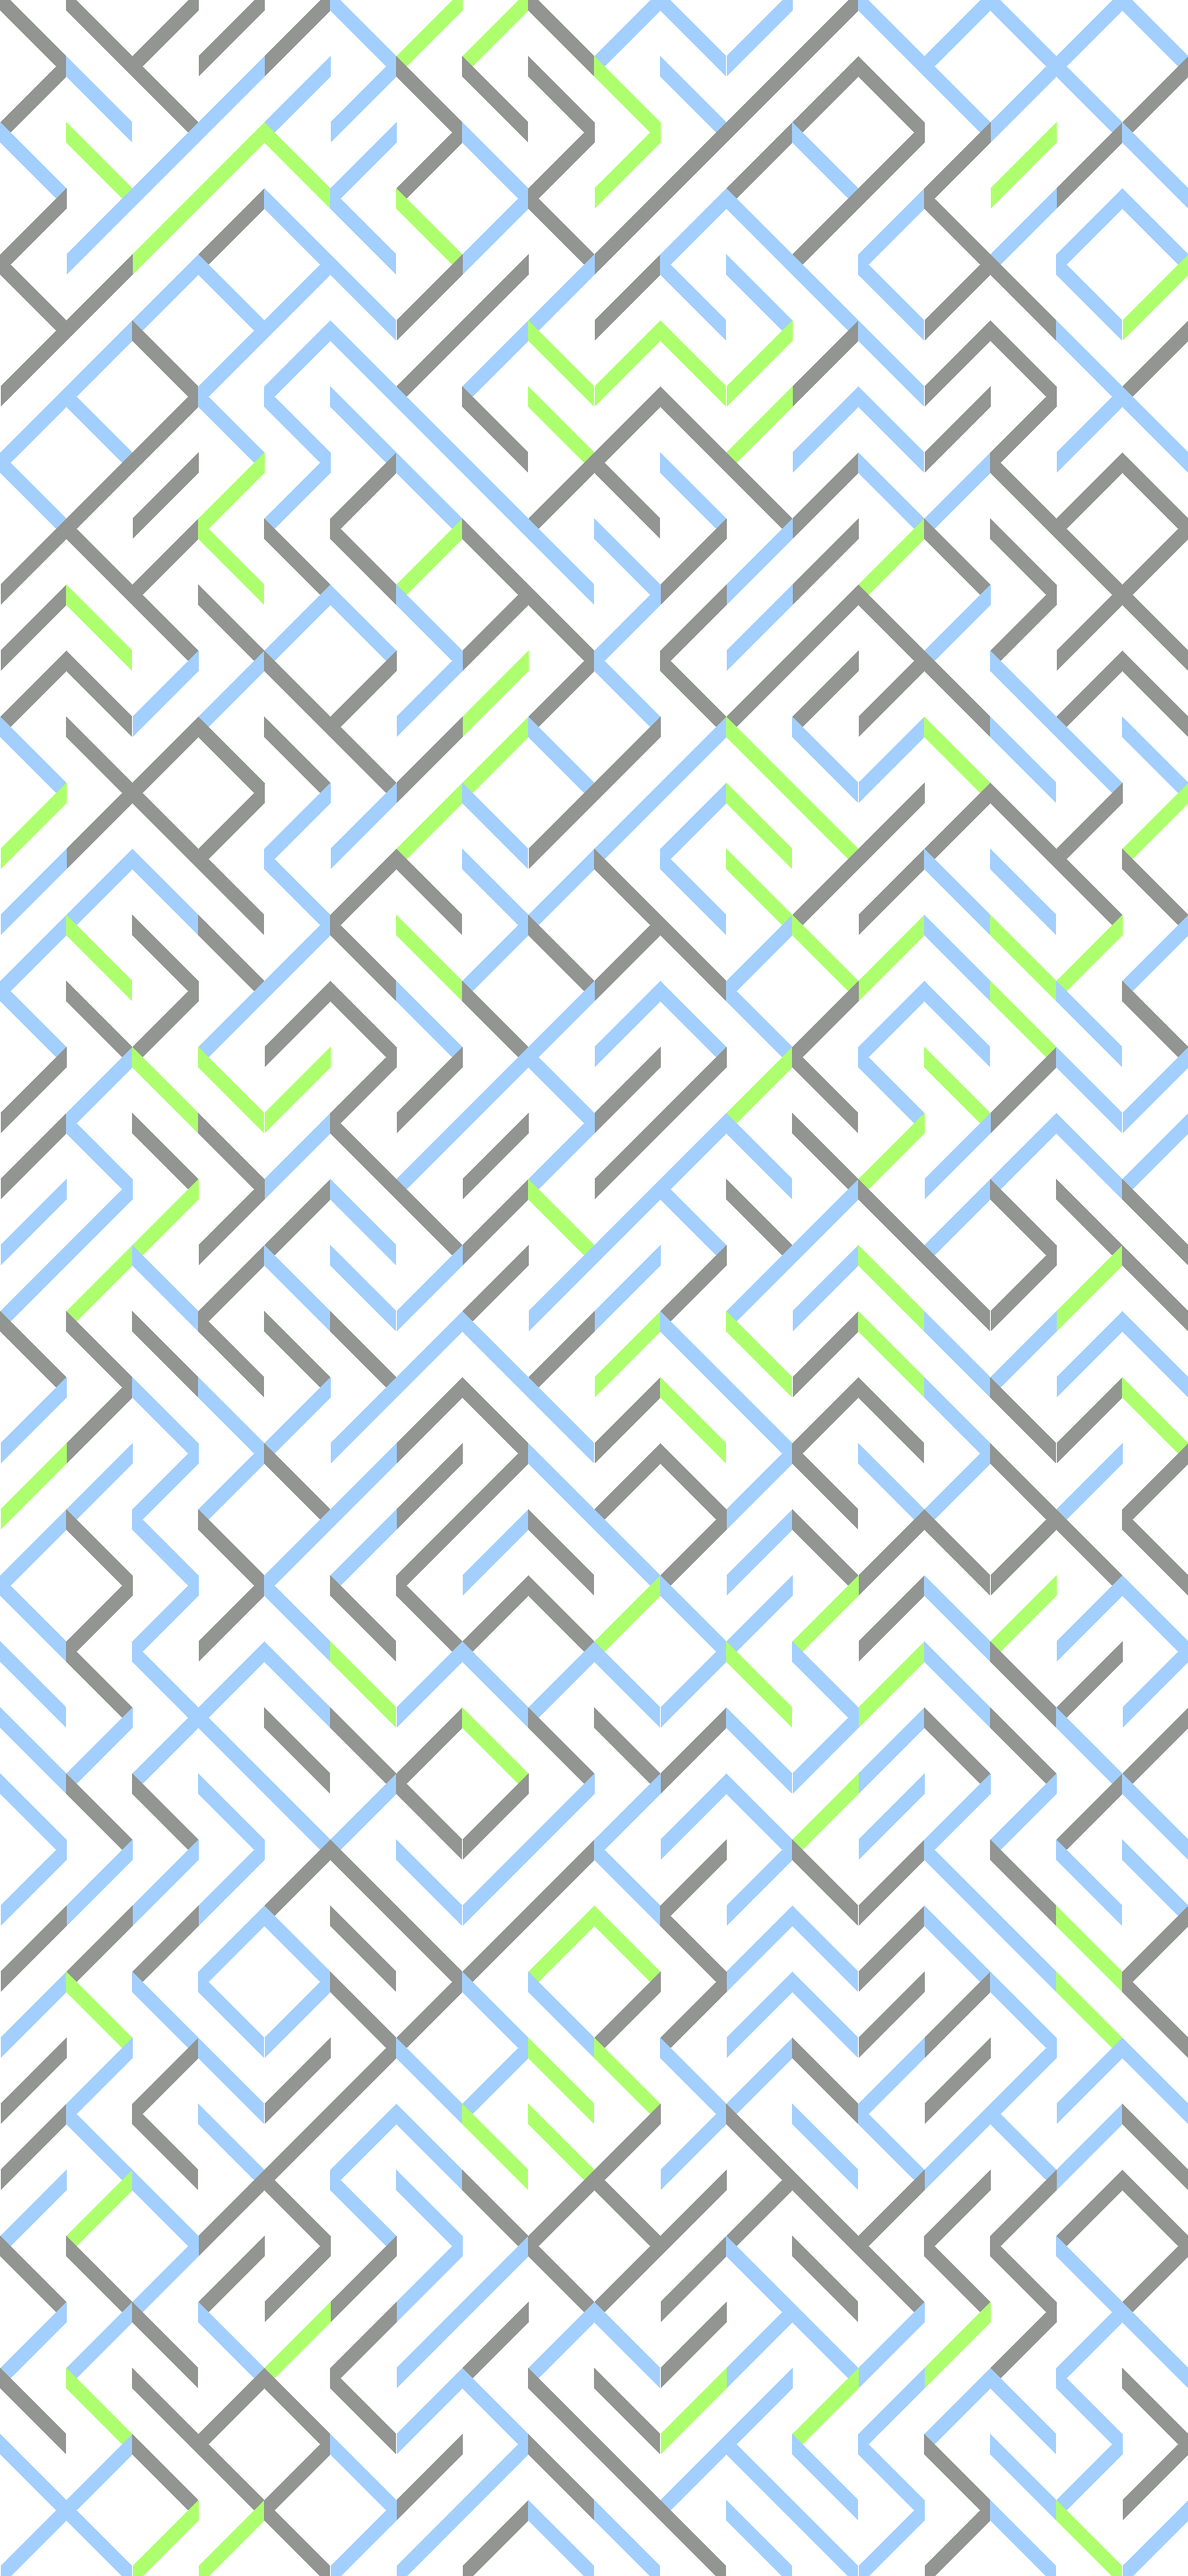
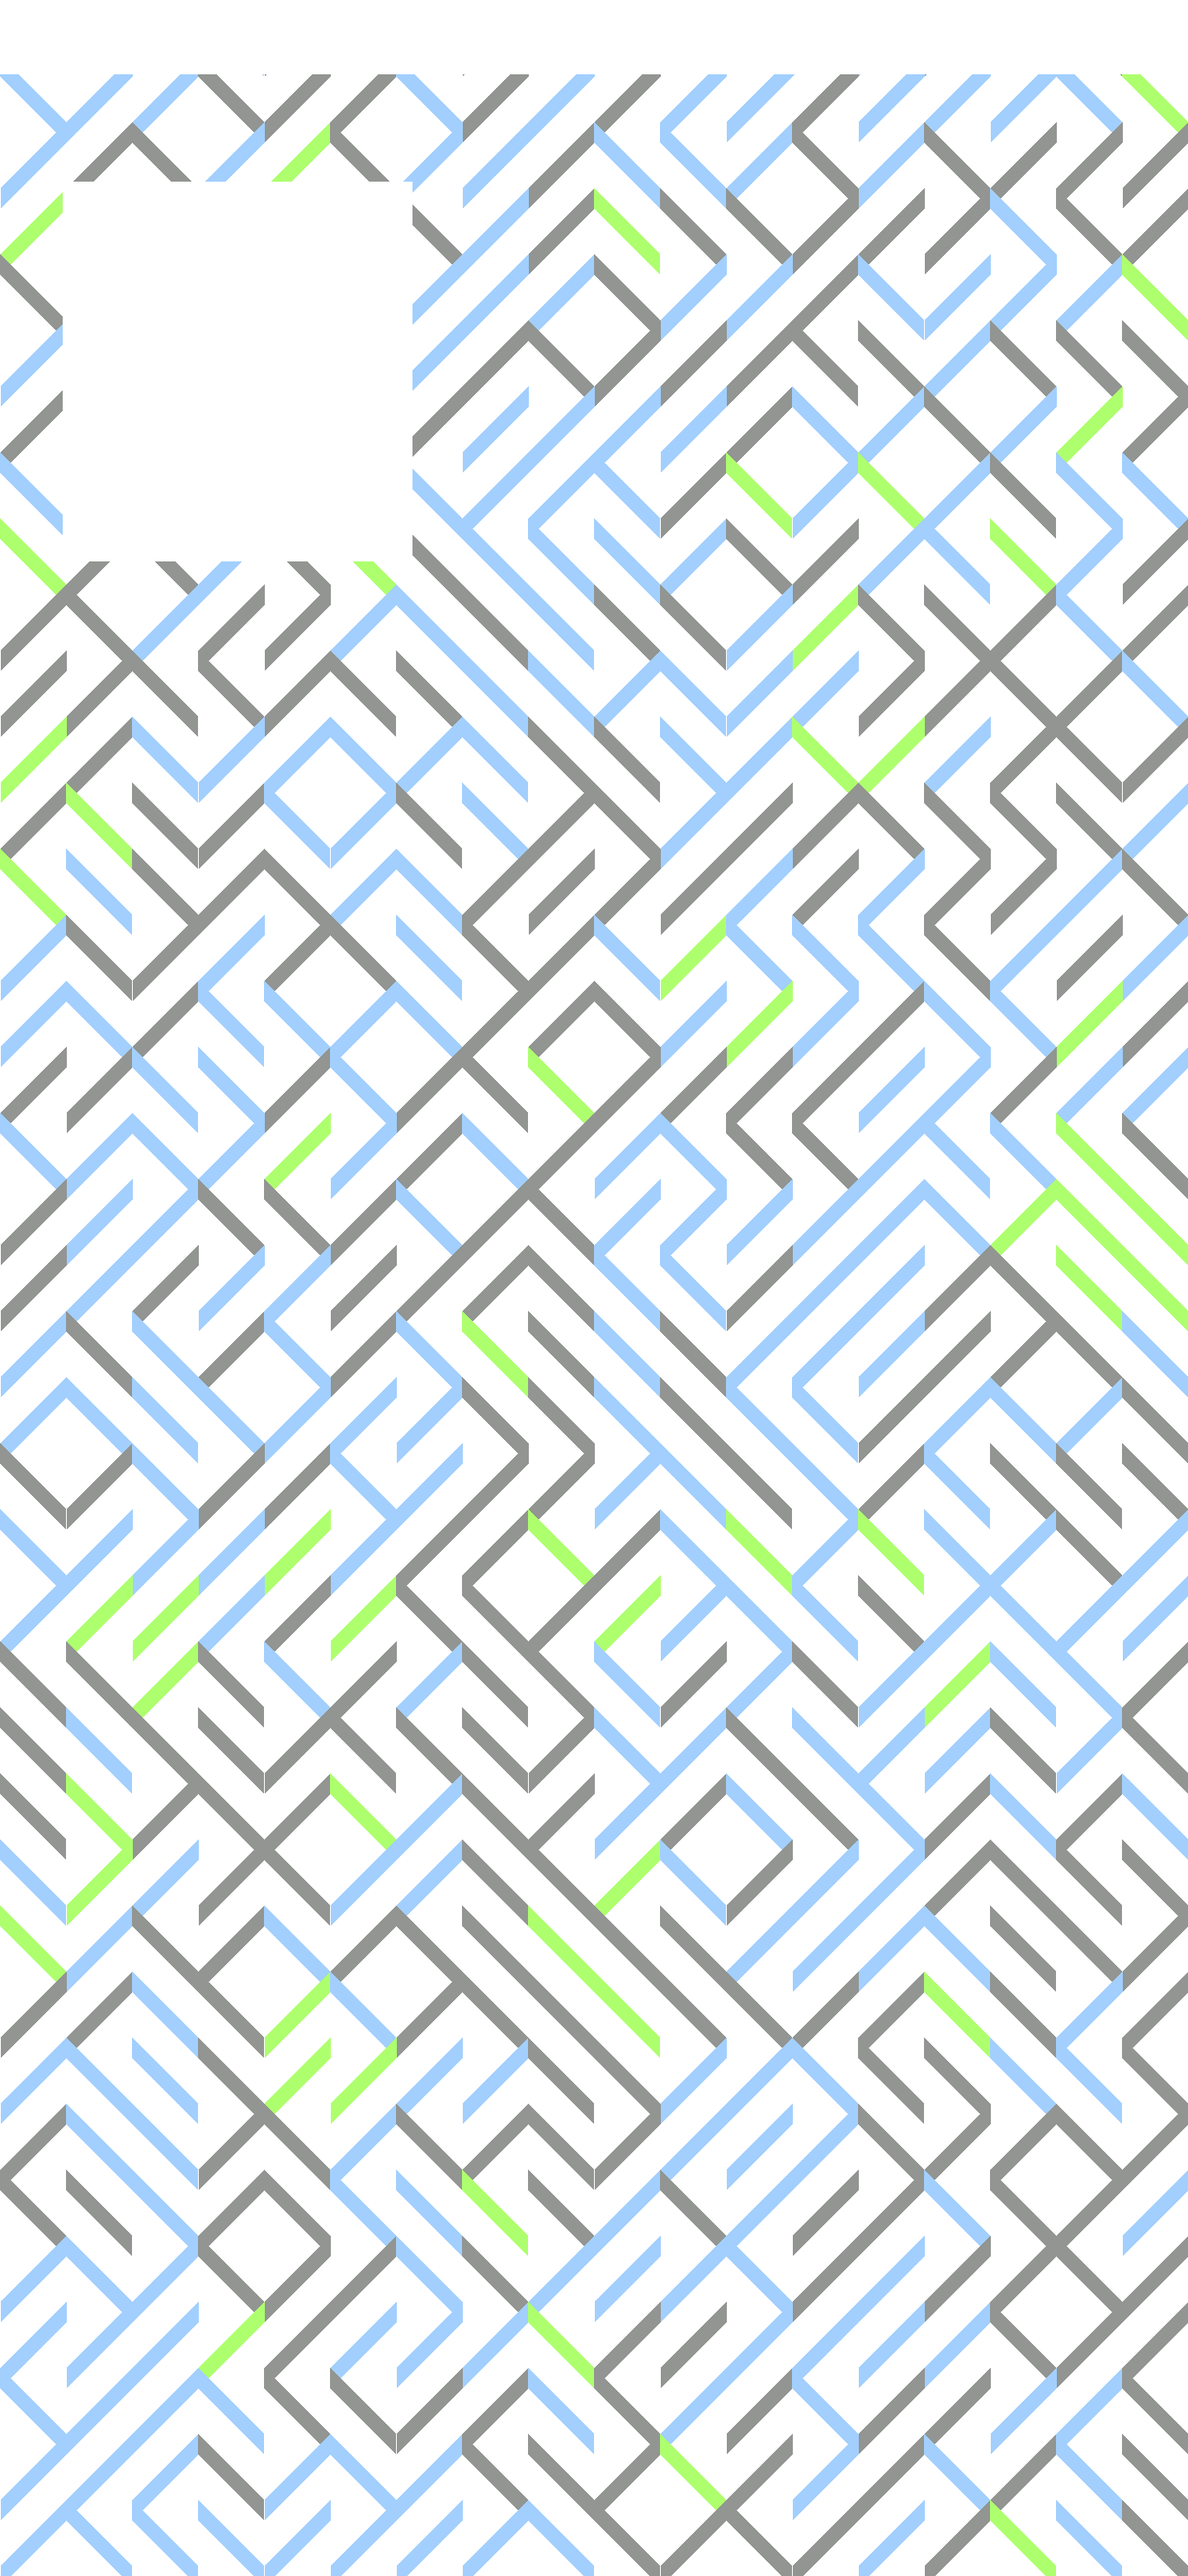
blank zones

diff --git a/lines.go b/lines.go
@@ -10,7 +10,8 @@ import (
     "fmt"
     "flag"
     "strings"
-        crypto_rand "crypto/rand"
+    "strconv"
+    crypto_rand "crypto/rand"
     "encoding/binary"
     math_rand "math/rand"
 )
@@ -45,12 +46,43 @@ func init() {
     math_rand.Seed(int64(binary.LittleEndian.Uint64(b[:])))
 }
 
+type BlankZone struct {
+    xStart int
+    yStart int
+    xEnd int
+    yEnd int
+}
+
+type blankZoneArray []BlankZone
+
+func (i *blankZoneArray) String() string {
+    return "my string representation"
+}
+
+func (i *blankZoneArray) Set(value string) error {
+    var coordsStrings = strings.Split(value, ",")
+    coords := make([]int, len(coordsStrings))
+    var err error
+    for i := range coords {
+        coords[i], err = strconv.Atoi(coordsStrings[i])
+        if err != nil {
+            panic("Bad integer when processing blank zones")
+        }
+    }
+    var zone = BlankZone{coords[0], coords[1], coords[2], coords[3]}
+    *i = append(*i, zone)
+    return nil
+}
+
+var blankZones blankZoneArray
+
 func main() {
     var width = flag.Int("width", 200, "width of the image")
     var height = flag.Int("height", 100, "height of the image")
     var step = flag.Int("step", 20, "step for lines")
     var lineWidth = flag.Int("lwidth", 3, "width for lines")
     var outputFile = flag.String("output", "output.png", "name of the output png")
+    flag.Var(&blankZones, "blankZone", "2 points, comma separated, to remove art from. -blankZone 0,0,100,100")
     flag.Parse()
     // width := 1080
     // height := 2160
@@ -84,6 +116,14 @@ func main() {
                 fmt.Println("x:", x, "y:", y)
             }
             draw(img, c, x,y,*step,*step, *lineWidth)
+        }
+    }
+    blank :=  color.RGBA{0, 0, 0, 0x00}
+    for _, zone := range blankZones {
+        for x := zone.xStart; x < zone.xEnd; x+= 1 {
+            for y := zone.yStart; y < zone.yEnd; y+= 1 {
+                img.Set(x,y,blank);
+            }
         }
     }
 
